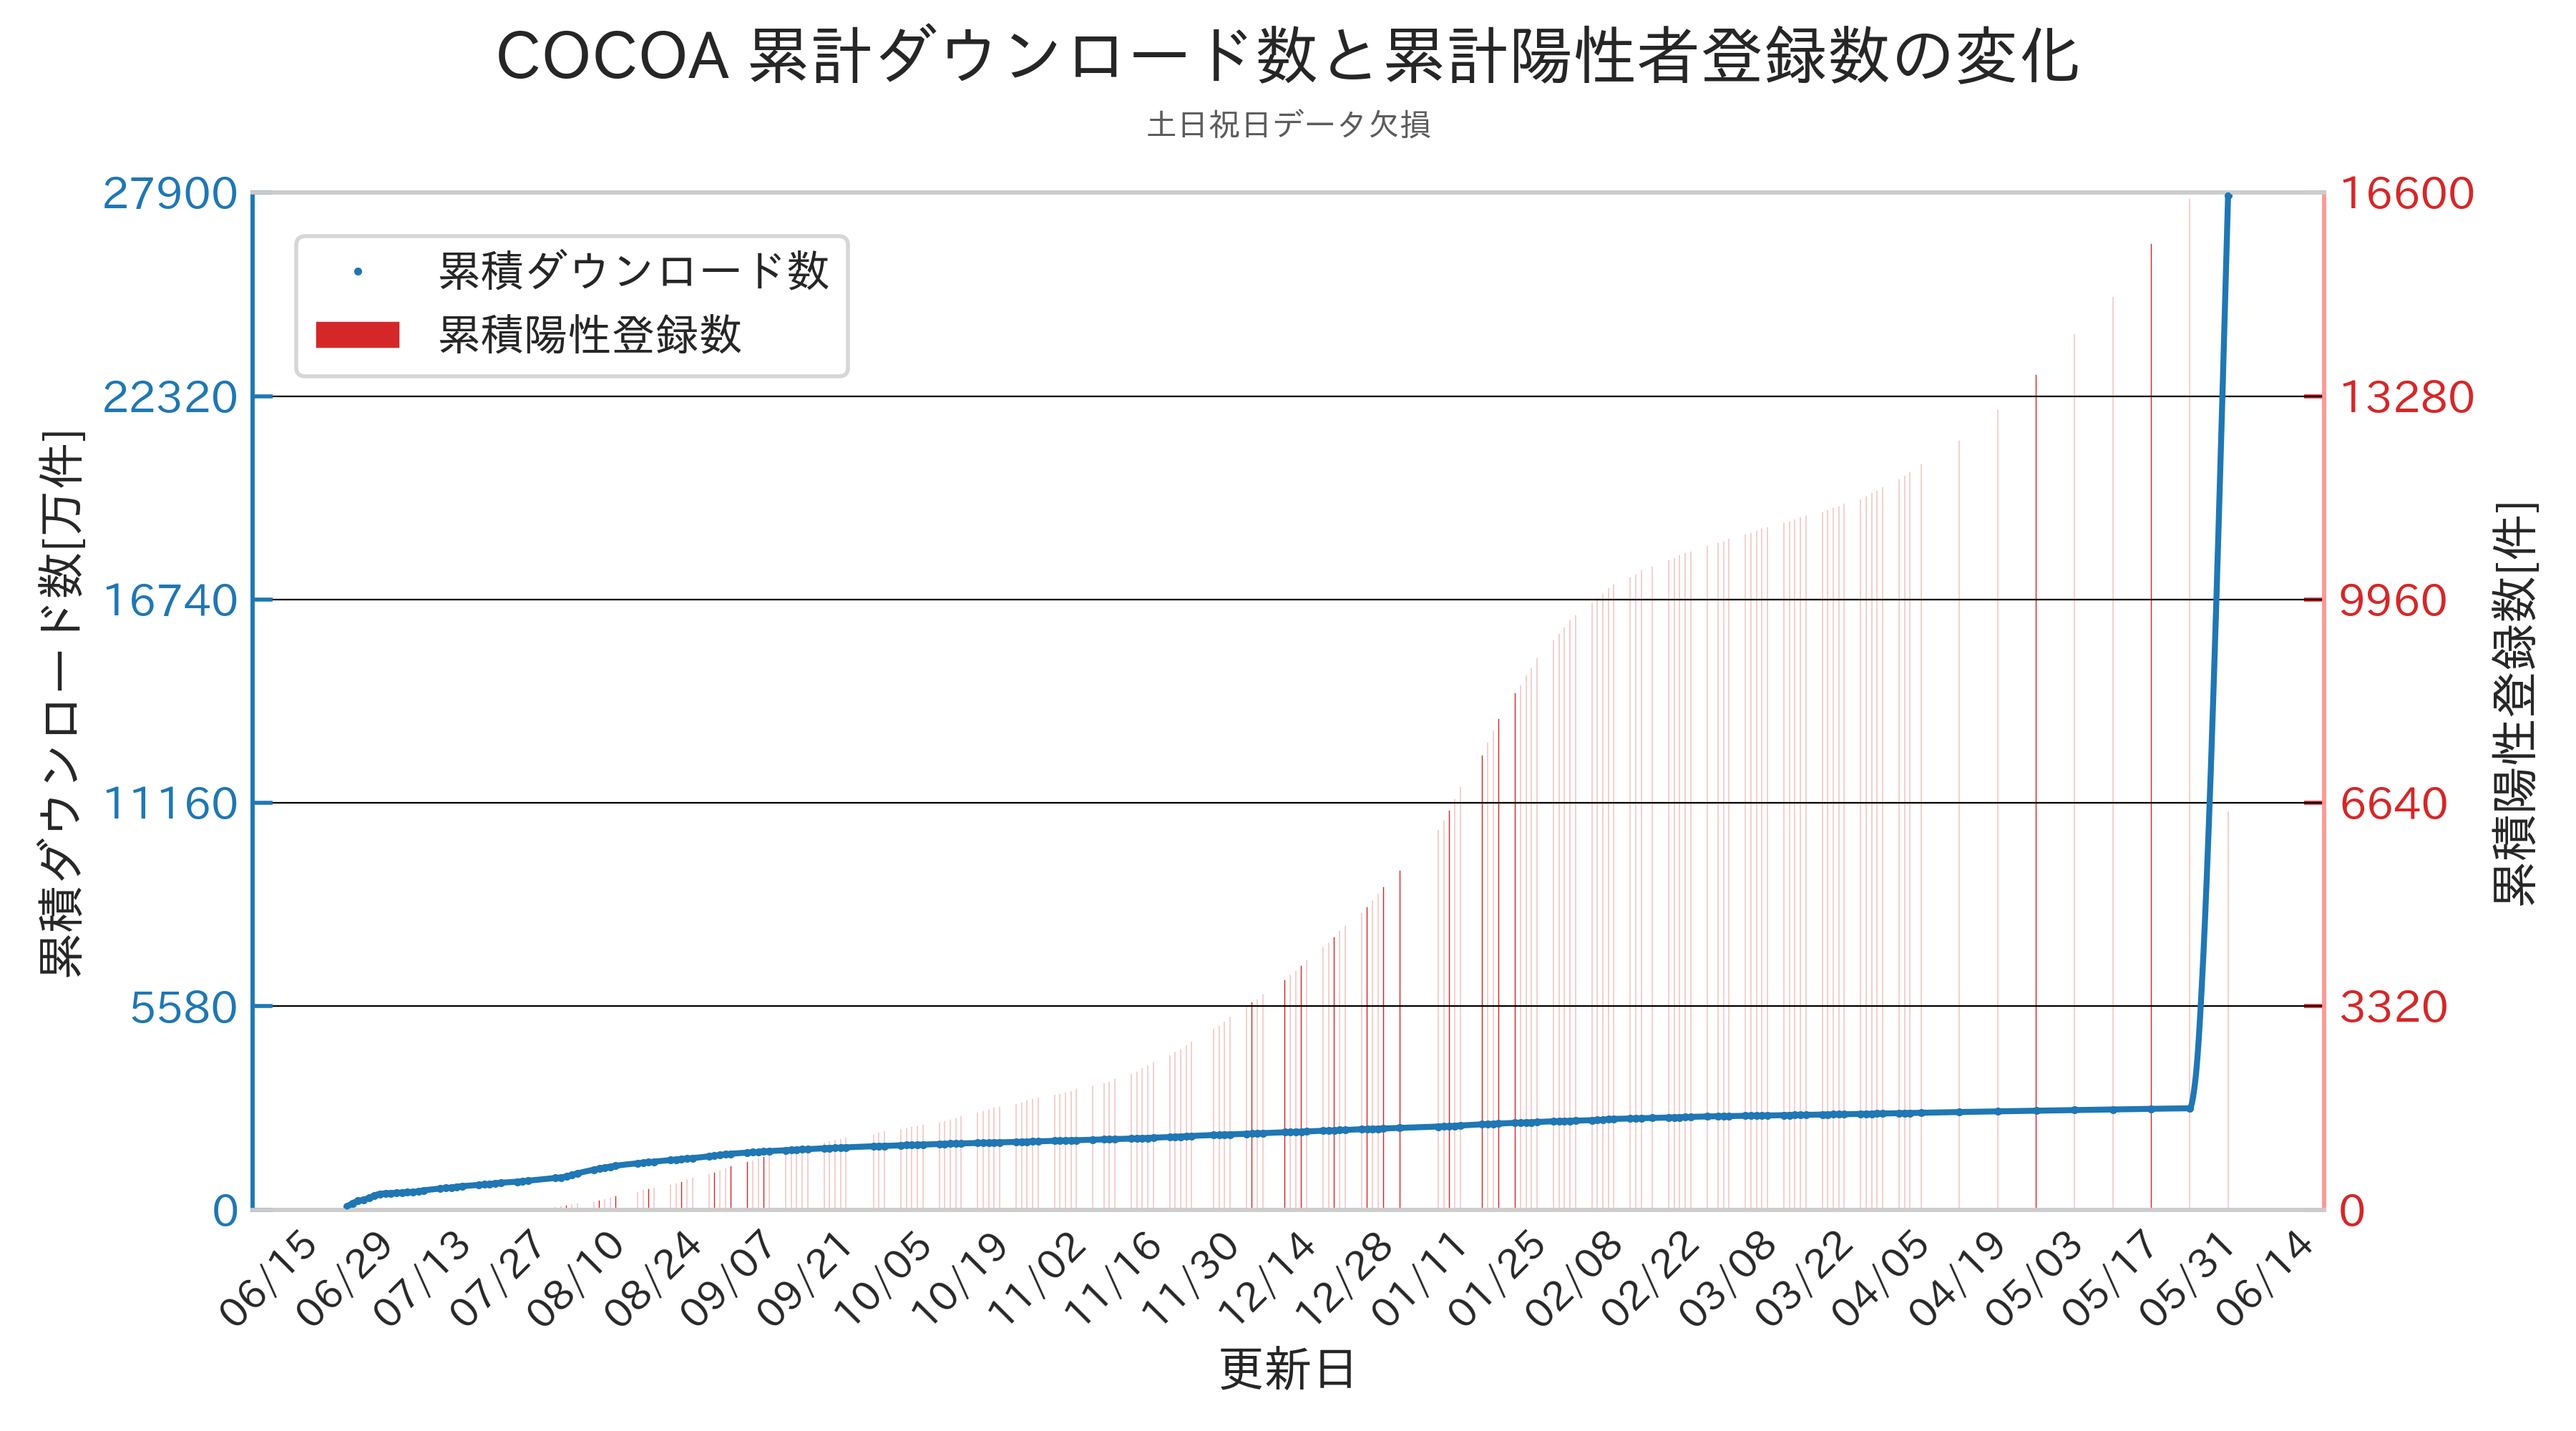
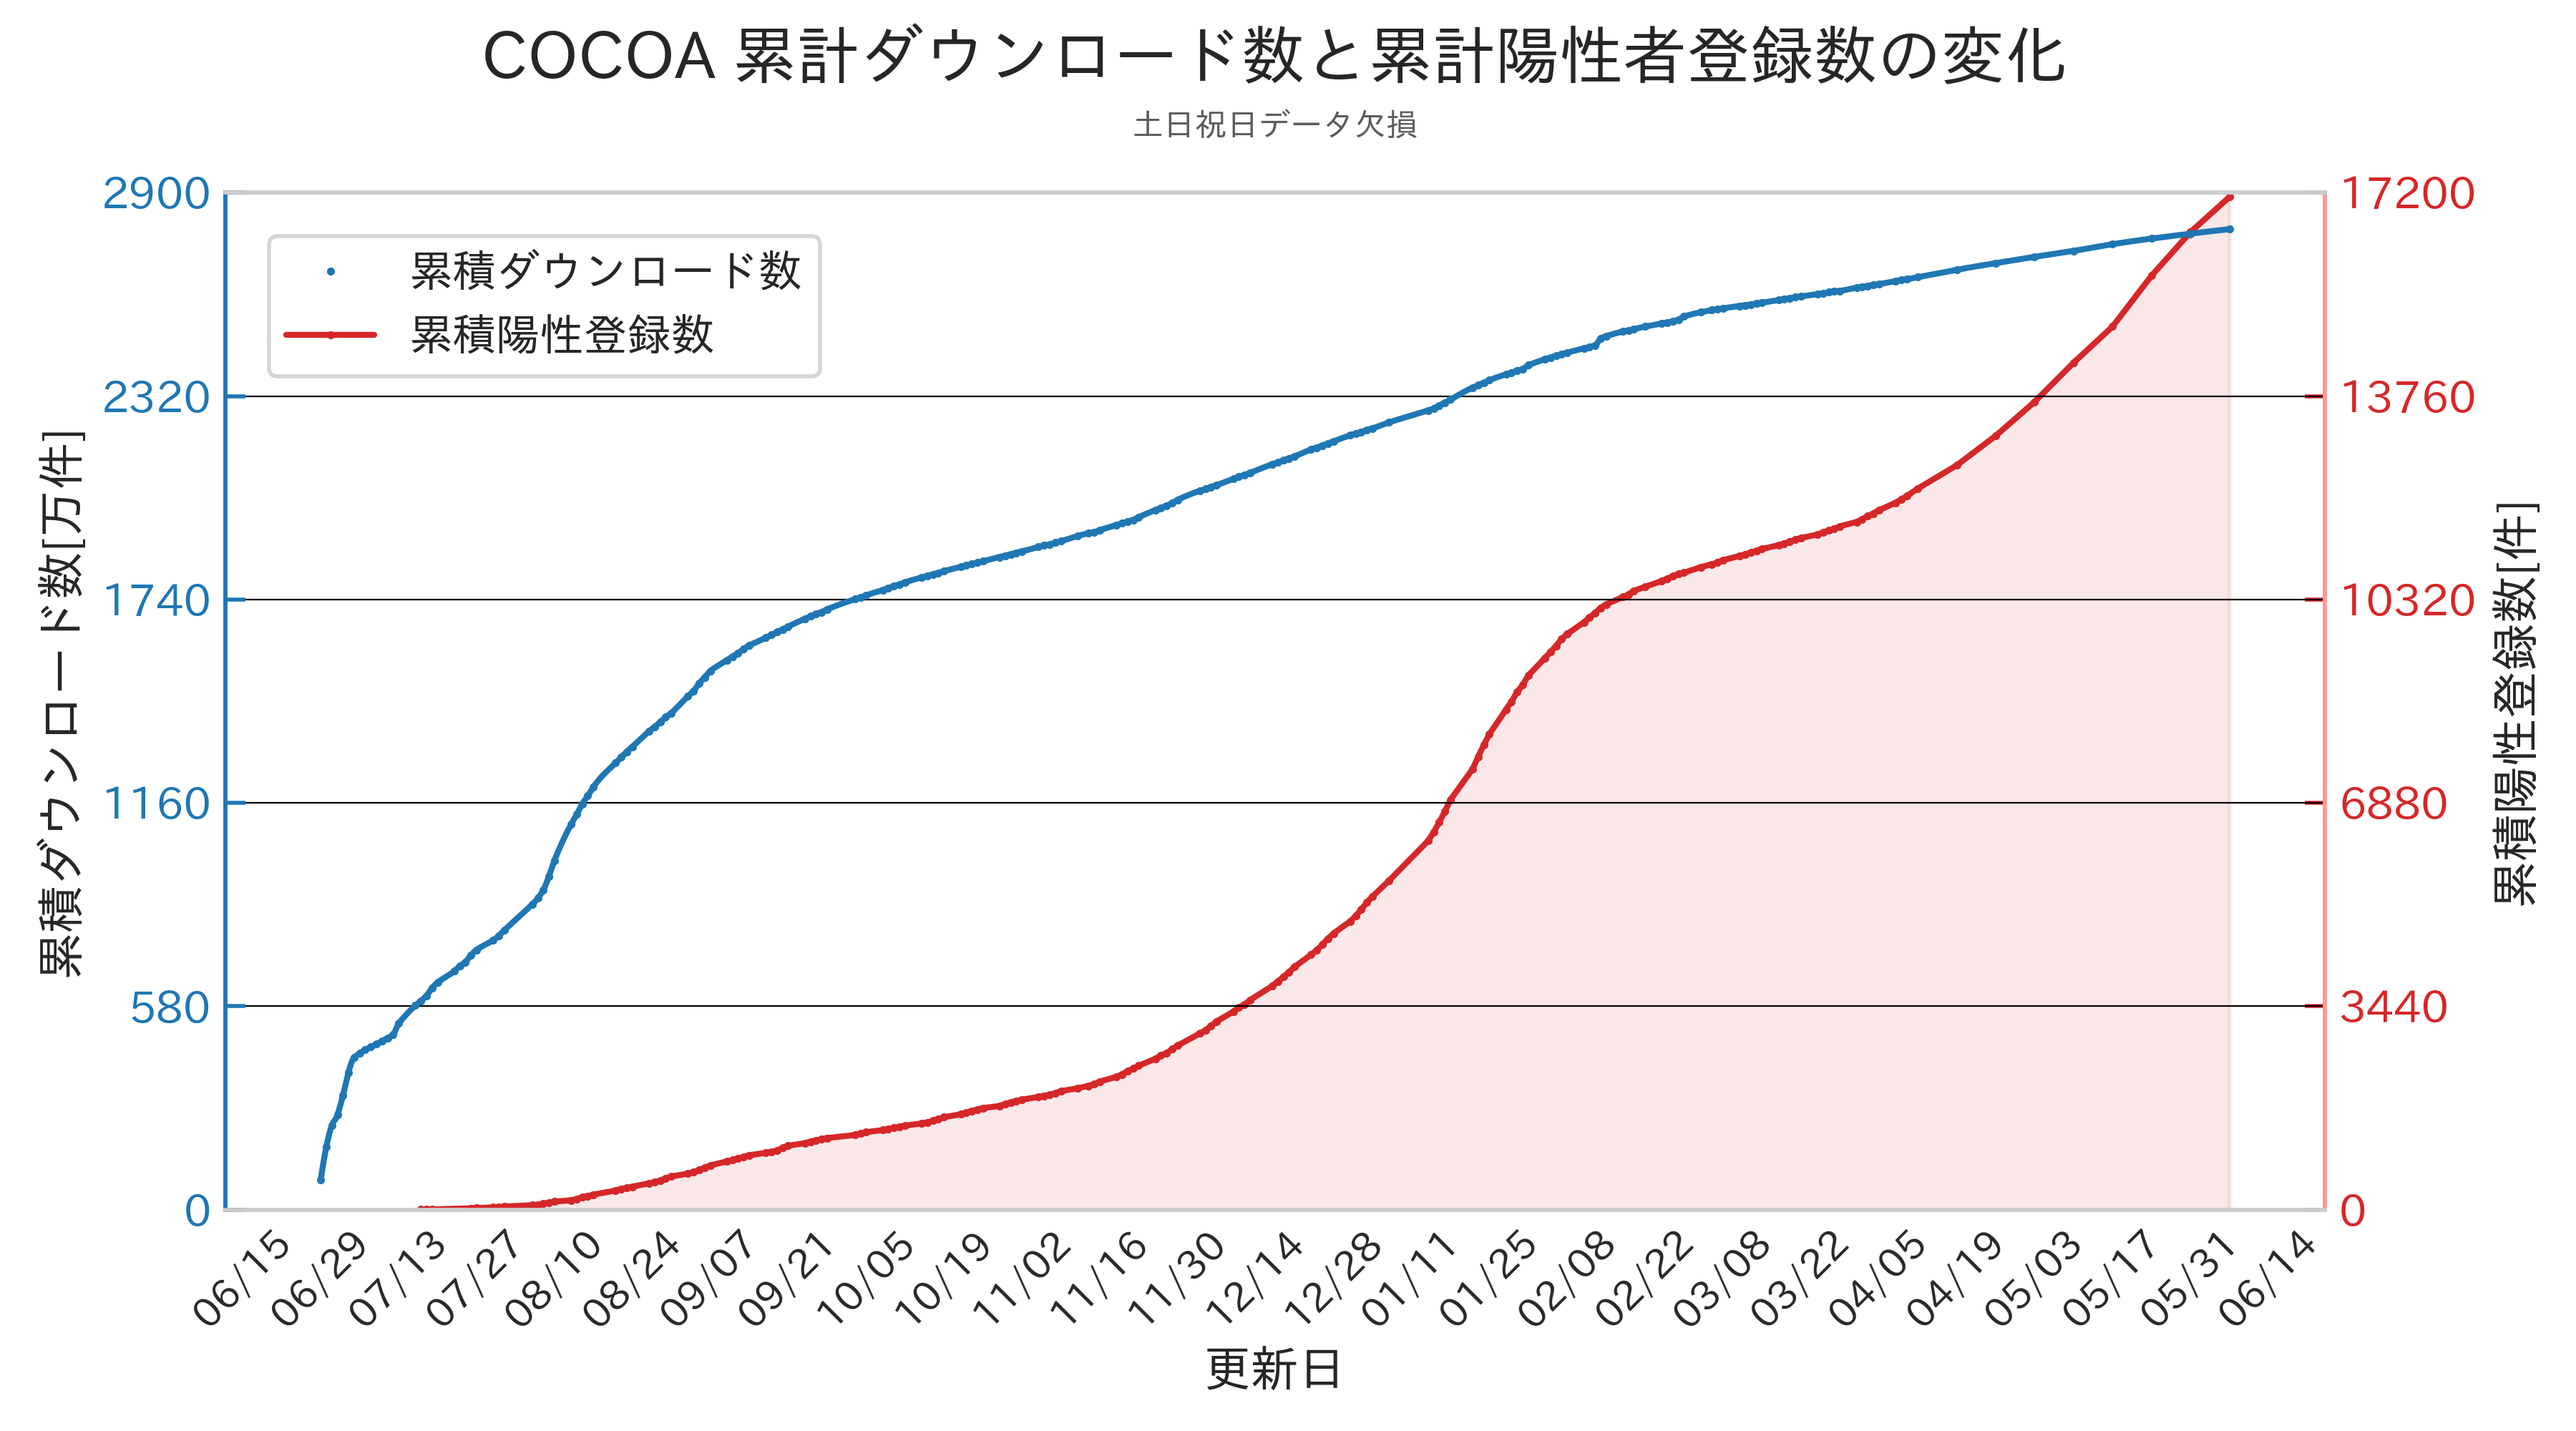
"Data update"

diff --git a/sub_sys/cocoa_rolling_plot.py b/sub_sys/cocoa_rolling_plot.py
@@ -218,11 +218,11 @@ def graph_dl_rol(df_zero,df):
     
     # 1つのaxesオブジェクトのlines属性に2つのLine2Dオブジェクトを追加
     ## 棒グラフ
-    ax1.bar(df_zero['Update'][s1mask], df_zero['Downlowd incremental(×10,000)'][s1mask],color=color_1, label="ダウンロード数",zorder=1)
-    
+    ax1.bar(df_zero['Update'][s1mask], df_zero['Downlowd incremental(×10,000)'][s1mask],color=color_1, label="ダウンロード数",zorder=1,width=1,linewidth= 0.1, edgecolor=color_1, alpha=0.5)
+    #ax1.plot(df_zero['Update'][s1mask], df_zero['Downlowd incremental(×10,000)'][s1mask],color=color_1, label="ダウンロード数",marker="o",zorder=1,markersize=1)
 
     ## 移動平均線
-    ax1.plot(rol[0],rol[1],color=color_2, label="移動平均（７日間）",zorder=2,linewidth=1)
+    ax1.plot(rol[0],rol[1],color=color_2, label="移動平均（７日間）",zorder=2,linewidth=2)
     
     ##y軸グリッド線表示
     ax1.grid(axis='y', color='black', lw=0.4)
@@ -270,6 +270,9 @@ def graph_dl_rol(df_zero,df):
     #download_max = 1.4 * max(df['Downlowd incremental(×10,000)'])
     #ax1.set_ylim([0, download_max])
     #ax2.set_ylim([0, positive_max])
+    
+    #Fill
+    #plt.fill_between(rol[0],rol[1],color=color_2, alpha=0.3)
     
     #round()で四捨五入して丸める
     ax1.set_ylim(0,round(max(df_zero['Downlowd incremental(×10,000)'][s1mask])+ 20, -1))
@@ -360,10 +363,10 @@ def graph_posi_rol(df_zero,df):
 
     # 1つのaxesオブジェクトのlines属性に2つのLine2Dオブジェクトを追加
     ## 棒グラフ
-    ax1.bar(df_zero['Update'][s2mask], df_zero['Increment of positive registration'][s2mask], color=color_3, label="陽性登録数",zorder=1)
+    ax1.bar(df_zero['Update'][s2mask], df_zero['Increment of positive registration'][s2mask], color=color_3, label="陽性登録数",zorder=1,width=1.0,linewidth=0.1, edgecolor=color_3, alpha=0.5)
     
     ## 移動平均線
-    ax1.plot(rol[0],rol[1],color=color_2, label="移動平均（７日間）",zorder=2,linewidth=1)
+    ax1.plot(rol[0],rol[1],color=color_2, label="移動平均（７日間）",zorder=2,linewidth=2)
     
     # y軸グリッド線表示
     ax1.grid(axis='y', color='black', lw=0.4)

diff --git a/sub_sys/cocoa_create_plot.py b/sub_sys/cocoa_create_plot.py
@@ -205,8 +205,9 @@ def graph_date(df):
     #ax2.plot(rol[0],rol[1],color=color_3, label="移動平均",zorder=4)
     
     # 棒グラフデータ設定
-    ax2.bar(df['Update'][s2mask], df['Positive registration']
-            [s2mask], color=color_3, label="累積陽性登録数",zorder=1)
+    #ax2.bar(df['Update'][s2mask], df['Positive registration'][s2mask], color=color_3, label="累積陽性登録数",zorder=1)
+    ax2.plot(df['Update'][s2mask], df['Positive registration']
+            [s2mask], color=color_3, label="累積陽性登録数",marker="o",zorder=1,markersize=1)
     ax2.grid(None)
 
     # 軸の目盛り設定
@@ -282,6 +283,9 @@ def graph_date(df):
     # 最大値設定
     #ax1.set_ylim([0, download_max])
     #ax2.set_ylim([0, positive_max])
+    
+    #Fill
+    plt.fill_between(df['Update'][s2mask], df['Positive registration'][s2mask], color=color_3, alpha=0.1)
 
     # X-axis setting(表示形式)
     ax1.xaxis.set_major_locator(mdates.DayLocator(
@@ -390,8 +394,9 @@ def graph_dy(df):
     #ax1.plot(rol[0],rol[1],color=color_3, label="移動平均",zorder=4)
 
     #棒グラフ
-    ax2.bar(df['Update'][s2mask], df['Increment of positive registration']
-            [s2mask], color=color_3, label="陽性登録数",zorder=1)
+    #ax2.bar(df['Update'][s2mask], df['Increment of positive registration'][s2mask], color=color_3, label="陽性登録数",zorder=1)
+    ax2.plot(df['Update'][s2mask], df['Increment of positive registration']
+            [s2mask], color=color_3, label="陽性登録数",marker="o",zorder=1,markersize=1, alpha=0.5)
     ax2.grid(None)
     
     # 軸の目盛りの最大値をしている
@@ -471,7 +476,10 @@ def graph_dy(df):
     # 最大値設定
     #ax1.set_ylim([0, download_max])
     #ax2.set_ylim([0, positive_max])
-
+    
+    #Fill
+    plt.fill_between(df['Update'][s2mask], df['Increment of positive registration'][s2mask], color=color_3, alpha=0.1)
+    
     # ##以下をカスタマイズする
     ax1.xaxis.set_major_locator(mdates.DayLocator(bymonthday=None, interval=14, tz=None))
     daysFmt = mdates.DateFormatter('%m/%d')
